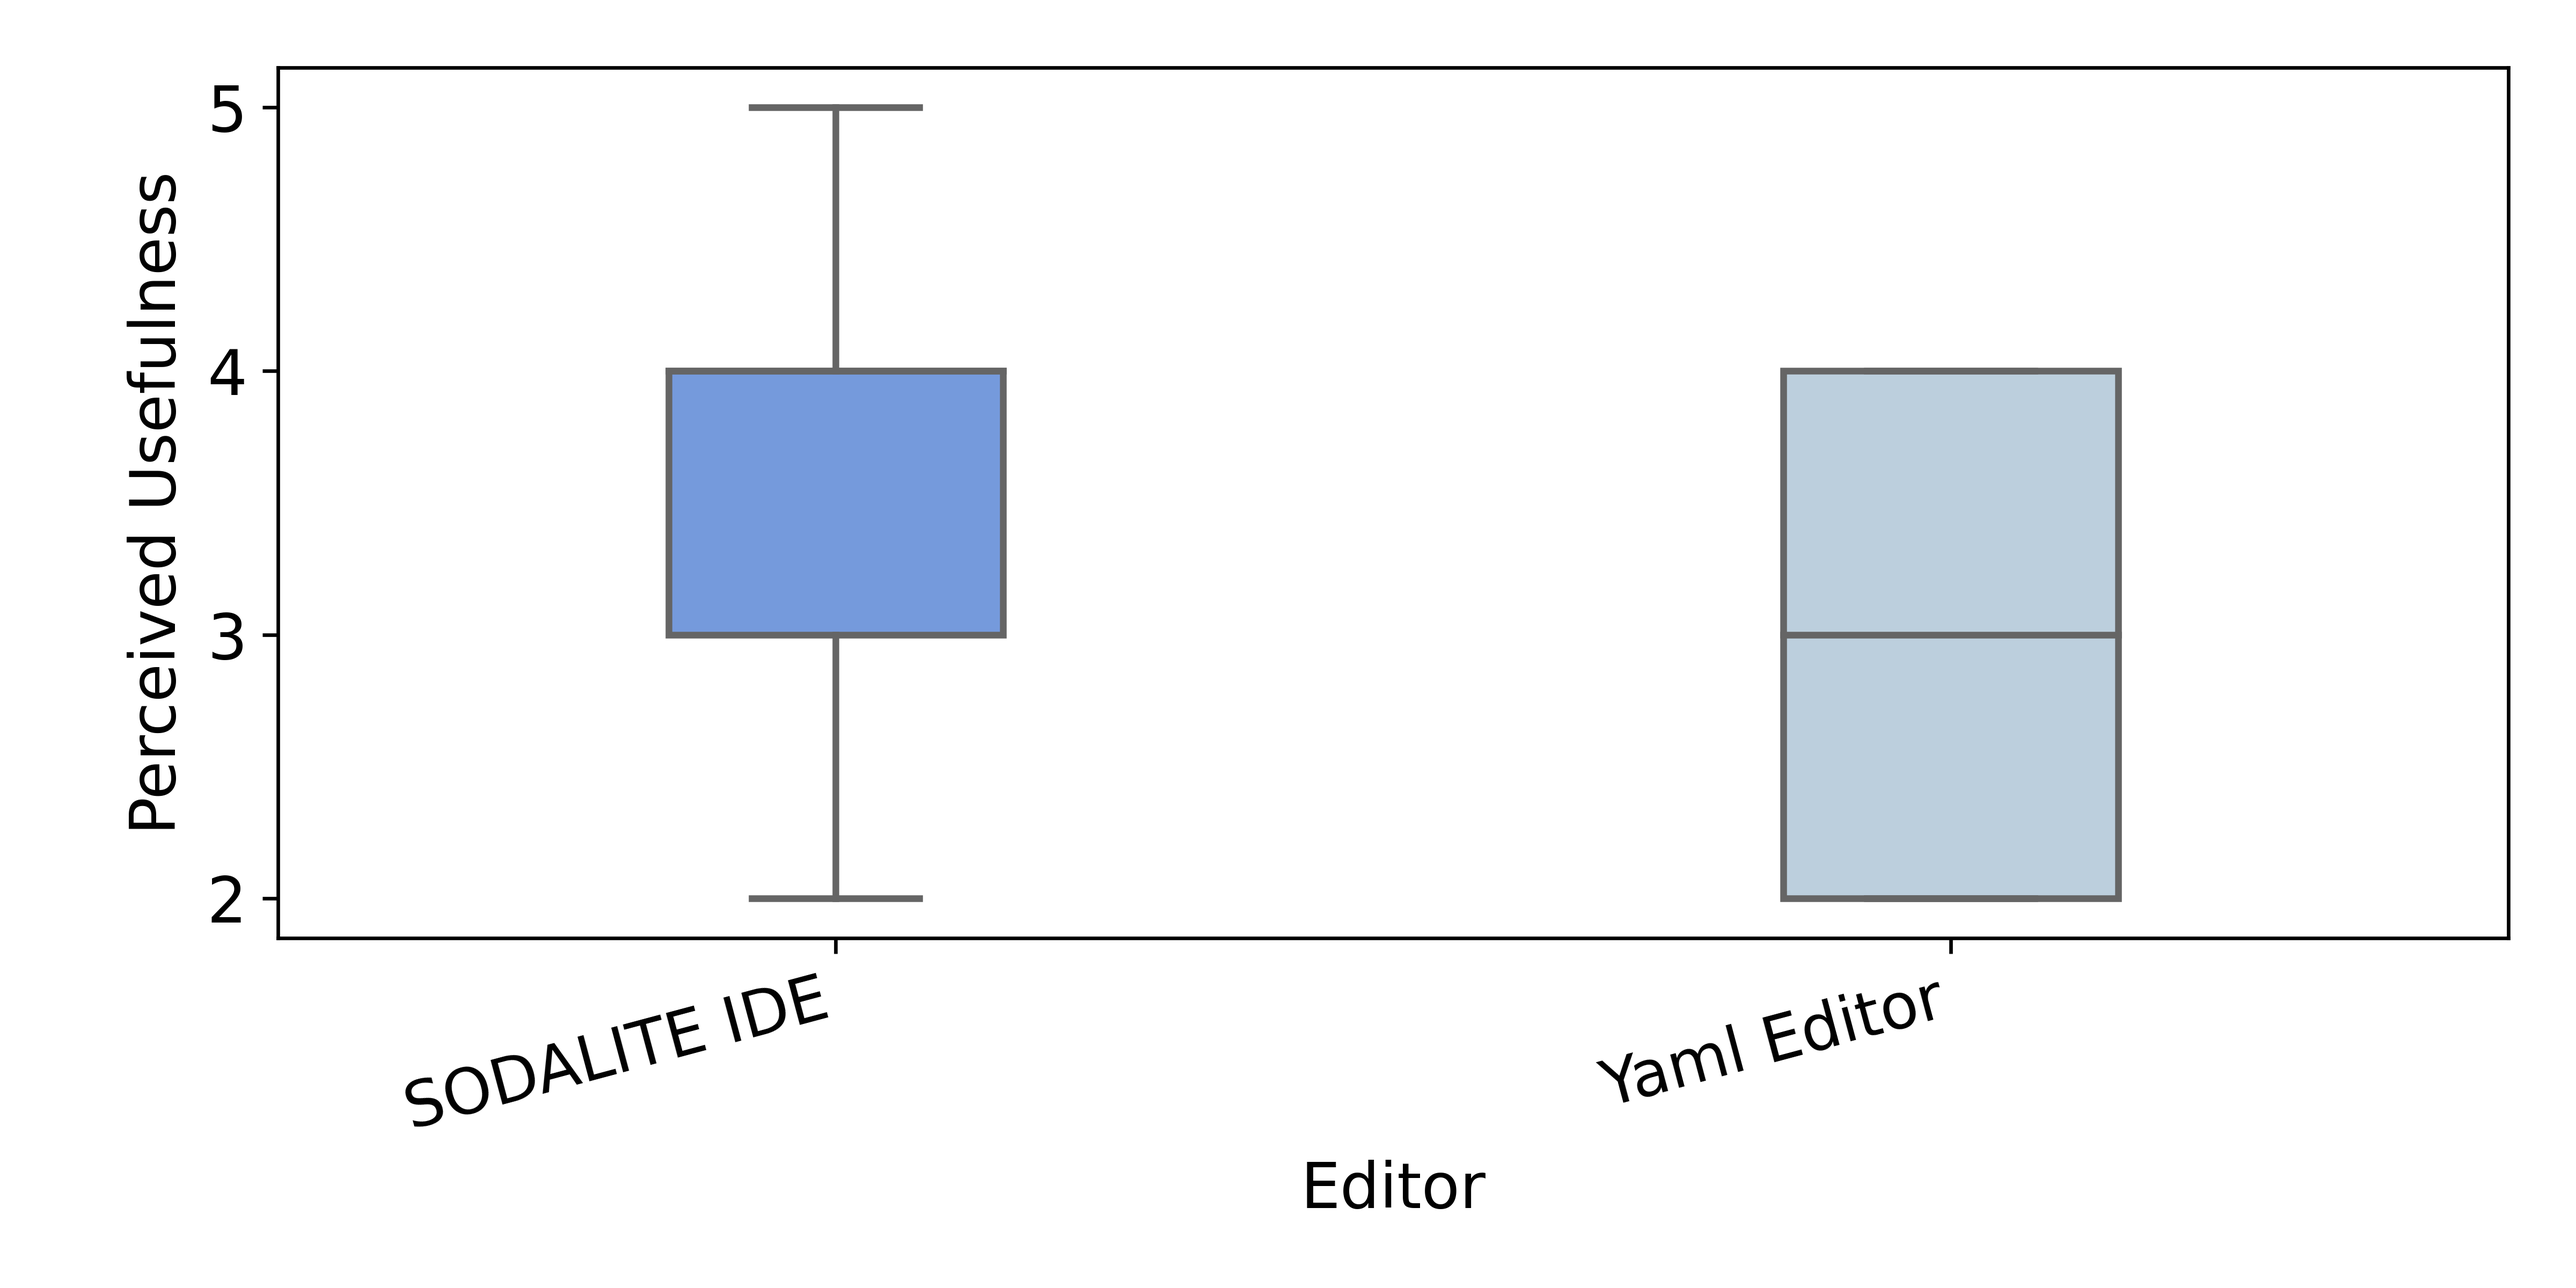
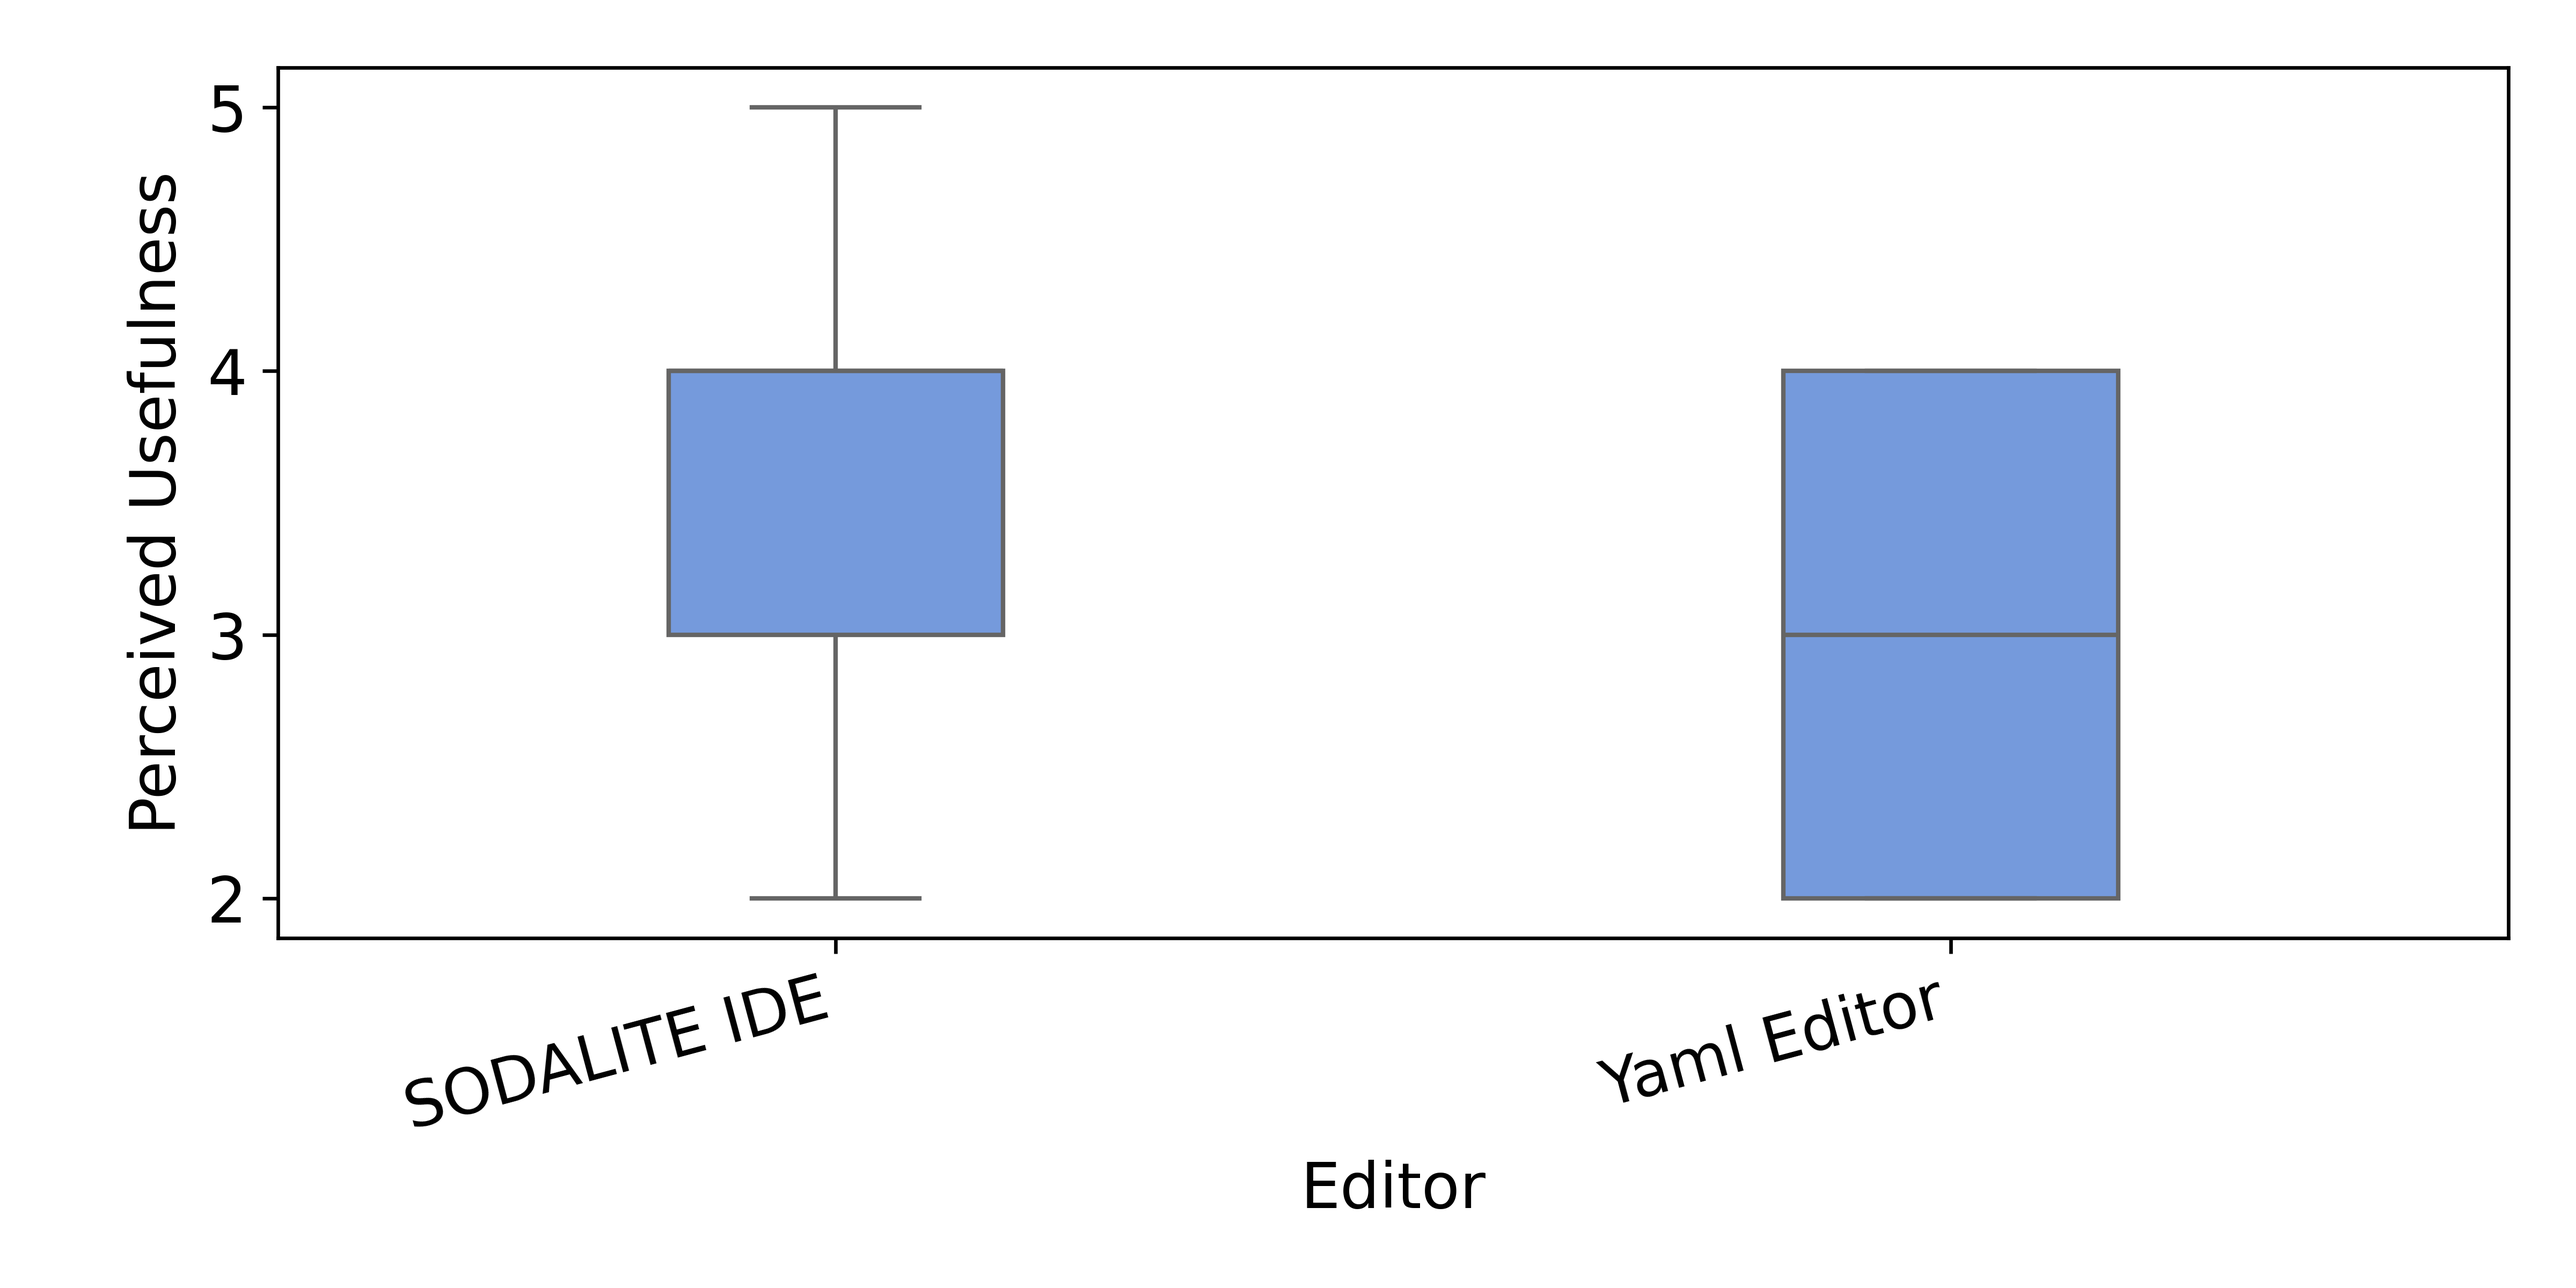
M37 changes

Changed region(s): [[0.6875, 0.2812, 0.8438, 0.7188]]

diff --git a/M37_EaseOfUse_Usefulness_Subplots.py b/M37_EaseOfUse_Usefulness_Subplots.py
@@ -1,0 +1,49 @@
+import pandas as pd
+import seaborn as sns
+import matplotlib.pyplot as plt
+
+
+# Set the desired width in pixels
+width_in_pixels = 1000
+
+# Calculate the required figure width in inches based on the DPI
+dpi = width_in_pixels / 10  # Assuming 10 inches in width
+fig_width = width_in_pixels / dpi
+
+#way 1 # gridspec https://matplotlib.org/stable/gallery/subplots_axes_and_figures/subplots_demo.html
+
+fig = plt.figure()
+gs = fig.add_gridspec(1, 2, hspace=0.425, wspace=0.125)
+axes = gs.subplots(sharex=True)
+#way 2
+# Create a single figure with two subplots sharing the same y-axis
+#fig, axes = plt.subplots(2, 3, figsize=(fig_width, 4), dpi=dpi, sharey=True)  # Adjust the height as needed
+
+df_perf = pd.read_csv('csv/Perceived_usefulnessIT2.CSV', index_col=False)
+
+sns.boxplot(y=df_perf["Perceived Usefulness"], x=df_perf["Editor"], width=0.3, ax=axes[0])
+axes[0].set_xticklabels([])
+#axes[0].set_xticklabels(axes[0].get_xticklabels(), rotation=0, ha="center")
+axes[0].set_aspect(0.8)
+axes[0].set_ylabel('Perceived Usefulness')  # Add this line to set the y-axis label
+axes[0].set(xlabel=None)
+
+
+
+df_perf = pd.read_csv('csv/Ease_of_use_it2.CSV', index_col=False)
+
+sns.boxplot(y=df_perf["Ease of Use"], x=df_perf["Editor"], width=0.3, ax=axes[1])
+axes[1].set_xticklabels([])
+#axes[1].set_xticklabels(axes[1].get_xticklabels(), rotation=0, ha="center")
+axes[1].set_aspect(0.8)
+axes[1].set_ylabel('Ease of Use')  # Add this line to set the y-axis label
+axes[1].set(xlabel=None)
+
+
+# Save the figure
+plt.savefig("pngboxplots_subplots/M37_ease_of_use_usefulness.png", dpi=dpi)
+
+
+# Show the plot (if needed)
+plt.show()
+

diff --git a/bar.py b/bar.py
@@ -4,11 +4,11 @@ import pandas as pd
 
 
 df = pd.read_csv("./Development_Modification.CSV")
-ax = df.plot.bar(x='Activity', color=['#6495ED', '#B6D0E2'])
-ax.set_ylabel('Minutes')
+ax = df.plot.bar(x='Activity', color=['#336699', '#bfcfff'])
+ax.set_ylabel('Minutes', fontsize=16)
 
 activities = ['Development', 'Modification']
-ax.set_xticklabels(activities, rotation=0)
+ax.set_xticklabels(activities, rotation=0, fontsize=14)
 plt.tight_layout()
-
+plt.xlabel('Activity', fontsize=16);
 plt.savefig("timeExpertsIt1.png")

diff --git a/M37_Intention_Subplots.py b/M37_Intention_Subplots.py
@@ -12,15 +12,6 @@ fig_width = width_in_pixels / dpi
 
 #way 1 # gridspec https://matplotlib.org/stable/gallery/subplots_axes_and_figures/subplots_demo.html
 
-
-
-
-
-
-
-
-
-
 fig = plt.figure()
 gs = fig.add_gridspec(2, 2, hspace=0.425, wspace=0.125)
 axes = gs.subplots(sharex=True)
